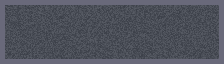
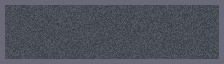
Side walls: three windows per floor, pilasters, grain, brick-course ground floor
Claude-Session: https://claude.ai/code/session_013NozTEqze7jz3LdAKrPRz7

diff --git a/kotlin-street/tools/make_buildings.py b/kotlin-street/tools/make_buildings.py
@@ -69,15 +69,28 @@ def side_segment(seg, windows):
     for y in range(h):
         px = a[y][(a[y, :, 3] > 200) & ~gm[y]]
         rows[y] = np.median(px, axis=0) if len(px) else (60, 50, 50, 255)
+    if not windows:
+        # the ground floor's side wall: the wall's own colour with brick courses, not the shop display's bands
+        solid = a[(a[..., 3] > 200) & ~gm]
+        base = np.median(solid, axis=0)
+        rows = (rows * .25 + base * .75).astype(np.uint8)
+        rows[::6, :3] = (rows[::6, :3].astype(np.int32) * 86 // 100).astype(np.uint8)
     side = Image.fromarray(np.repeat(rows[:, None, :], D, axis=1))
     if windows:
         boxes = [b for b in components(gm) if (b[2]-b[0]) < 70]
         if boxes:
             x0, y0, x1, y1 = boxes[0]
             m = 3; crop = seg.crop((max(0, x0-m), max(0, y0-m), min(w, x1+m+1), min(h, y1+m+1)))
-            for fx in (0.22, 0.62):
+            for fx in (0.12, 0.42, 0.72):
                 side.alpha_composite(crop, (int(D * fx), max(0, y0-m)))
-    return side
+    # corner pilasters, and a fine grain so the wall reads as masonry and not as flat bands
+    arr = np.array(side).astype(np.int32)
+    arr[:, :5, :3] = arr[:, :5, :3] * 72 // 100; arr[:, -5:, :3] = arr[:, -5:, :3] * 72 // 100
+    arr[:, 5:7, :3] = arr[:, 5:7, :3] * 118 // 100; arr[:, -7:-5, :3] = arr[:, -7:-5, :3] * 118 // 100
+    g = np.random.default_rng(h * 7 + int(arr[0, 0, 0])).integers(-5, 6, (h // 3 + 1, D // 3 + 1))
+    g = np.kron(g, np.ones((3, 3), np.int32))[:h, :D]
+    arr[..., :3] = np.clip(arr[..., :3] + g[..., None], 0, 255)
+    return Image.fromarray(arr.astype(np.uint8))
 
 def build(shop, out):
     parts = shop['parts']; ground = next(p for p in parts if not p['key'].startswith(('roof_', 'roofprop_', 'middle_')))
